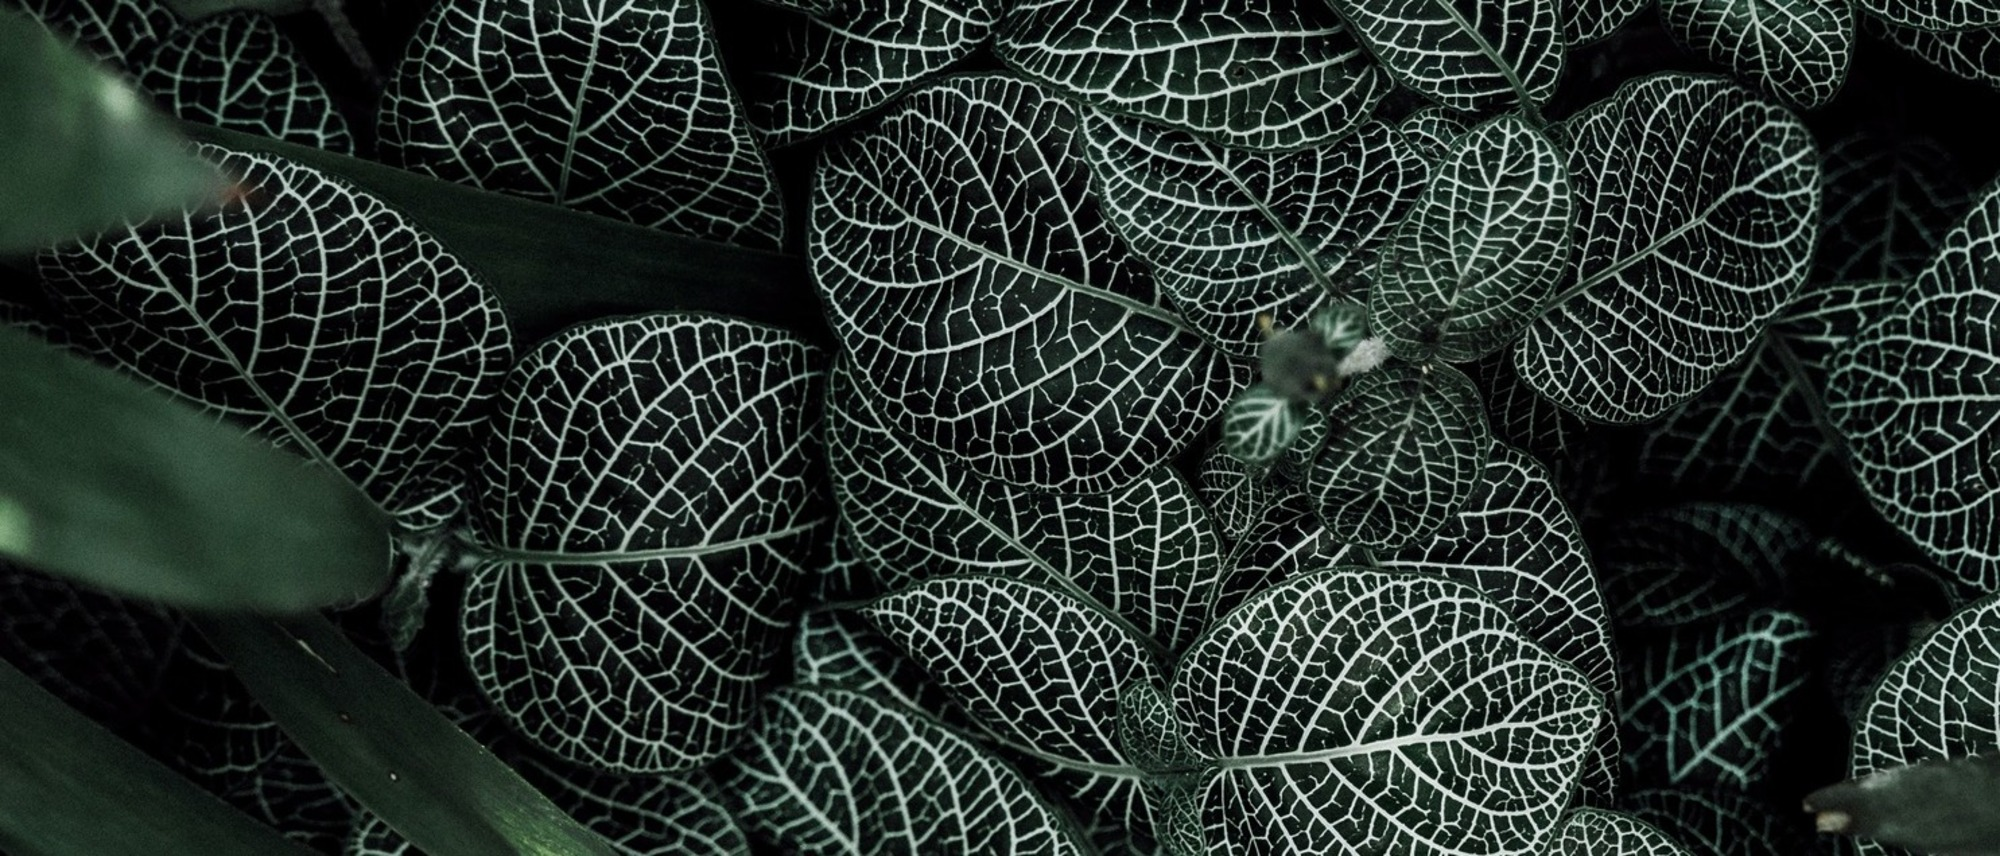
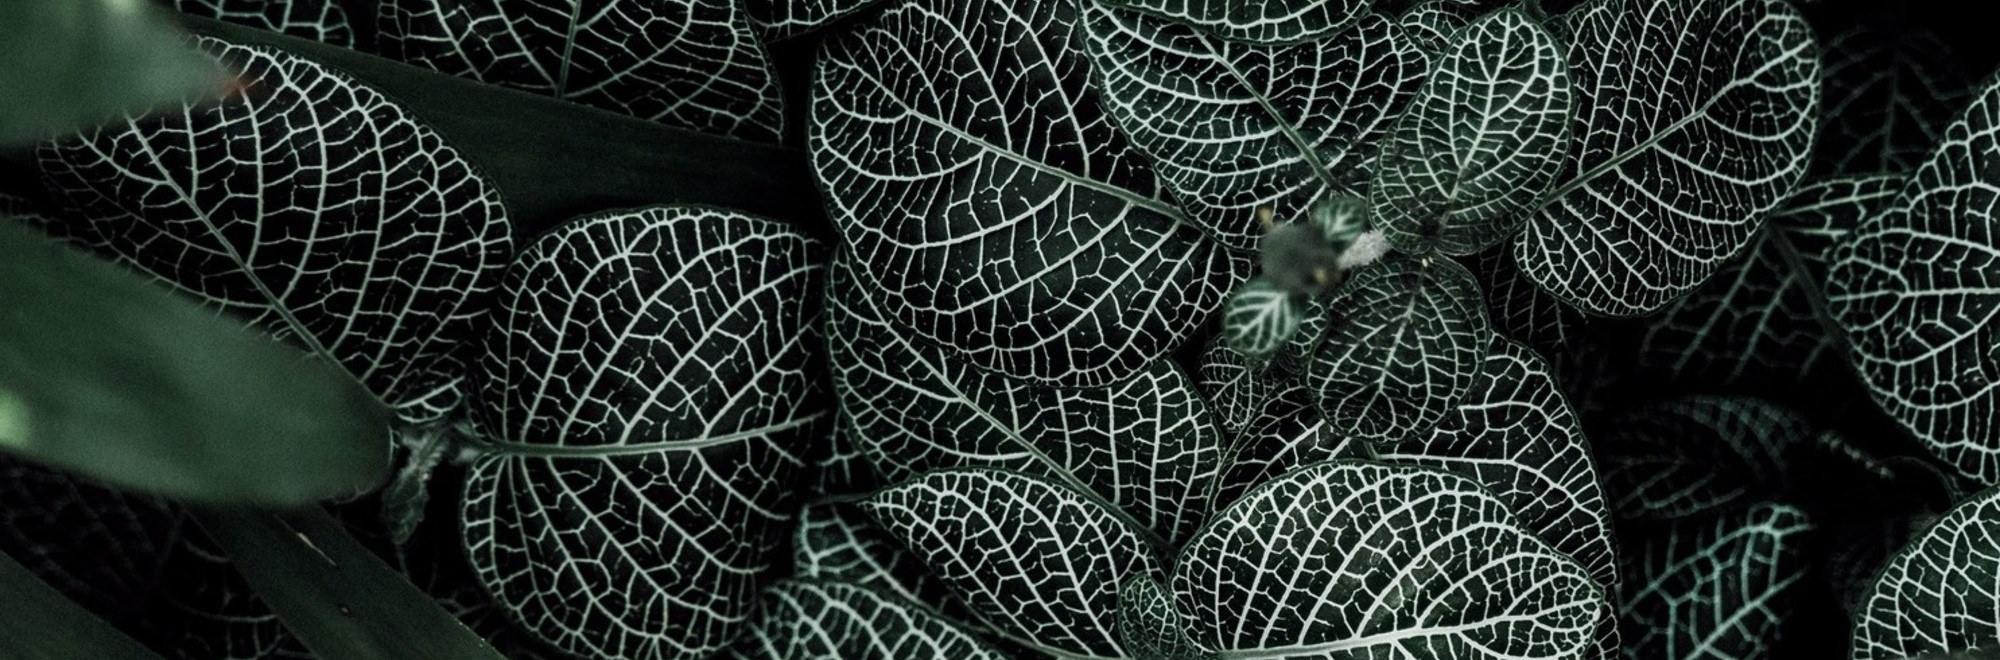
Assignment 8
Tables and Forms

diff --git a/project/project.css b/project/project.css
@@ -23,17 +23,18 @@ nav {
     overflow: hidden;
     font-family: 'Ostrich Sans', Arial, Helvetica, sans-serif;
     background-color: #BEDAC6;
-    position: -webkit-sticky;
-    position: sticky;
-    top: 0;
 } 
 nav ul { 
     list-style-type: none; 
     margin: 0;
-    background-color: black;
+    display: inline-flex;
+    margin-left: auto;
+    margin-right: 0;
 }
 nav a {
-    float: right;
+/*     margin-left: auto;
+    margin-right: 0; */
+    display: inline-flex;
     color: #1C3122;
     text-align: center;
     padding: 14px 16px;
@@ -63,7 +64,7 @@ header a {
     font-family: 'Ostrich Sans', Arial, Helvetica, sans-serif;
 }
 header h1 {
-    padding-left: 15px;
+    padding-left: 10%;
     margin: 0;
 }
 
@@ -84,8 +85,9 @@ p {
     font-family: 'permianseriftypefaceregular', Times, serif;
     font-size: 16px;
     color: #1C3122;
-    padding: 10px 50px 10px 50px;
     outline: medium solid #1C3122;
+    padding: 10px 50px 10px 50px;
+    margin: 0;
 }
 div {
     padding: 10px 50px 10px 50px;
@@ -104,11 +106,15 @@ ul {
 .onefourth h1 {
     font-size: 1em;
 }
+#banner {
+    background-image: url(images/banner.jpg);
+}
 
 /* images */
 .container {
     display: flex;
     justify-content: space-between;
+    background-color: #BEDAC6;
 }
 
 /* footer */
@@ -121,9 +127,14 @@ footer {
     text-align: center;
     padding: 1em;
 }
+img {
+    border-style: none;
+    max-width: 100%;
+    height: auto;
+}
 
 /* contact */
-.wrapper {
+#wrapper {
     float: left;
     background-color: #1C3122;
     padding-left: 0;
@@ -132,22 +143,22 @@ footer {
     padding-bottom: 5px;
     width: 400px;
 }
-.wrapper h1 {
+#wrapper h1 {
     color:#BEDAC6;
 }
-.wrapper p {
+#wrapper p {
     color: #BEDAC6;
     font-size: 1em;
 }
-.contact {
+#contact {
     padding-left: 475px;
 }
 
 /* coffee and plants */
-.coffee {
+#coffee {
     padding-left: 400px;
 }
-.coffee h1 {
+#coffee h1 {
     font-size: 3em;
     padding-bottom: 0;
     /* padding-left: 400px; */
@@ -155,3 +166,88 @@ footer {
 /* .coffee p {
     padding-left: 400px;
 } */
+@media (max-width: 768px) {
+    p { 
+        outline: none; 
+    }
+    .container {
+        display: flex;
+        flex-wrap: wrap;
+        background-color: #BEDAC6;
+    }
+    #coffee {       
+        padding: 0;
+    }
+    #wrapper {
+        width: 100%;
+        text-align: left;
+    }
+    #contact {
+        padding-left: 50px;
+    }
+    #banner {
+        background-image: url(images/smallbanner.jpg);
+    }
+}
+@media (max-width: 600px) {
+    p { 
+        outline: none; 
+    }
+    main img { 
+        display: none;
+    }
+    nav {
+        /* float: none; */
+        width: 100%;
+        padding: 0;
+        margin: 0;
+        background-color: #1C3122;
+    }
+    nav ul {
+        margin: 0;
+        padding: 0;
+        list-style-type: none;
+    }
+    nav ul li {
+        padding: 1% 0 0 0;
+        text-align: center;
+    }
+    nav a {
+        text-decoration: none;
+        float: none;
+        display: flex;
+        flex-wrap: wrap;
+        padding: .2em;
+        font-size: 1.25em;
+        color: #BEDAC6;
+    }
+    #coffee {
+        padding: 0;
+    }
+    #wrapper {
+        /* display: none; */
+        width: 100%;
+        background-color: #BEDAC6;
+        text-align: left;
+    }
+    #wrapper h1 { color:#1C3122; }
+    #wrapper p { color:#1C3122; }
+    #contact {
+        padding-left: 50px;
+    }
+    .container {
+        display: flex;
+        flex-wrap: wrap;
+        background-color: #BEDAC6;
+    }
+    #banner {
+        display: none;
+    }
+}
+@media (min-width: 1200px) {
+    nav {
+        position: -webkit-sticky;
+        position: sticky;
+        top: 0;
+    }
+}

diff --git a/javajam/jobs.html b/javajam/jobs.html
@@ -25,29 +25,25 @@
             </ul>
         </nav>
         <main>
-            <div id="homehero"></div>
-            <h2>Follow the Winding Road to JavaJam</h2>
-            <p>We’re a little out of the way, but take a drive in the country 
-            down Garrett Bay Road to JavaJam today! Indulge in our locally 
-            roasted free-trade coffee and home-made pastries. You’ll feel 
-            right at home at JavaJam!</p>
-            <p>Friendly and eclectic — JavaJam Coffee Bar is the perfect 
-            place to take a break, enjoy a refreshing beverage, and have a 
-            snack or light meal.</p>
-            <h3>JavaJam Coffee Bar features:</h3>
-            <ul>
-                <li>Specialty Coffee and Organic Tea</li>
-                <li>Bagels, Muffins, and Gluten-free Pastries</li>
-                <li>Organic Salads</li>
-                <li>Music and Poetry Readings</li>
-                <li>Open Mic Nights</li>
-            </ul>
-            <p><img src="pic_trulli.jpg" alt="Italian Trulli"></p>
+            <div id="herojobs"></div>
+            <h2>Jobs at JavaJam</h2>
+            <p>Want to work at JavaJam? Fill out the form below to start you application. All information is required.</p>
+            <form method="post" action="https://webdevbasics.net/scripts/javajam8.php">
+                <label for="myName">Name: </label>
+                <input type="text" id="myName" required>
+                <label for="myEmail">Email: </label>
+                <input type="email" id="myEmail" required>
+                <label for="myStart">Start Date: </label>
+                <input type="date" id="myStart" required>
+                <label for="myExperience">Experience: </label>
+                <textarea name="myExperience" id="myExperience" rows="2" cols="20" required></textarea>
+                <input type="submit" value="Apply Now">
+            </form>
             <div>12010 Garrett Bay Road<br>Ellison Bay, WI 54210<br><a id="mobile" href="tel:888-555-5555"><span id="desktop">888-555-5555</span>888-555-5555</a></div> &nbsp;
         </main>
         <footer>
-                Copyright &copy; 2023 JavaJam Coffee Bar<br> <a href="mailto:jolie@tatton.com">jolie@tatton.com</a>
-        </footer>
+            Copyright &copy; 2023 JavaJam Coffee Bar<br> <a href="mailto:jolie@tatton.com">jolie@tatton.com</a>
+    </footer>
     </div>
-    </body>
+</body>
 </html>

diff --git a/javajam/menu.html b/javajam/menu.html
@@ -21,6 +21,7 @@
                 <li><a href="index.html">Home</a></li>
                 <li><a href="menu.html">Menu</a></li>
                 <li><a href="music.html">Music</a></li>
+                <li><a href="jobs.html">Jobs</a></li>
             </ul>
         </nav>
         <main>
@@ -31,18 +32,20 @@
             discount on each cup of coffee you purchase — ask the barista for 
             details.</p>
             <div id="flow">
-                <section>
-                    <h3>Just Java</h3>
-                    <p>Regular house blend, decaffeinated coffee, or flavor of the day.<br>Endless Cup $3.50</p>
-                </section>
-                <section>  
-                    <h3>Cafe Au Lait</h3>
-                    <p>House blended coffee infused into a smooth, steamed milk.<br>Single $4.00 Double $5.00</p>
-                </section>
-                <section>
-                    <h3>Iced Cappuccino</h3>
-                    <p>Sweetened espresso blended with icy-cold milk and served in a chilled glass.<br>Single $5.00 Double $6.50</p>
-                </section>
+                <table>
+                    <tr>
+                        <th>Just Java</th> 
+                        <td>Regular house blend, decaffeinated coffee, or flavor of the day.<br>Endless Cup $3.50</td>
+                    </tr>
+                    <tr>
+                        <th>Cafe Au Lait</th>
+                        <td>House blended coffee infused into a smooth, steamed milk.<br>Single $4.00 Double $5.00</td>
+                    </tr>
+                    <tr>
+                        <th>Iced Cappuccino</th>
+                        <td>Sweetened espresso blended with icy-cold milk and served in a chilled glass.<br>Single $5.00 Double $6.50</td>
+                    </tr>
+                </table>
             </div>
             <div>12010 Garrett Bay Road<br>Ellison Bay, WI 54210<br><a id="mobile" href="tel:888-555-5555"><span id="desktop">888-555-5555</span>888-555-5555</a></div> &nbsp;
         </main>

diff --git a/javajam/javajam.css b/javajam/javajam.css
@@ -125,6 +125,29 @@ img {
 #desktop {
     display: none;
 }
+table {
+    width: 90%;
+    border-spacing: 0;
+}
+td, th {
+    padding: 10px;
+}
+tr:nth-of-type(odd) {
+	background-color: #D2B48E;
+}
+#herojobs {
+    height: 300px;
+    background-image: url(images/coffeecup.jpg);
+    background-repeat: no-repeat;
+    background-size: 100% 100%;
+}
+form { display: flex;
+    flex-direction: column;
+    padding-left: 1em; width: 80%; 
+}
+input, textarea { 
+    margin-bottom: .5em; 
+}
 @media (min-width: 600px) {
     header {
         text-align: center;
@@ -167,6 +190,20 @@ img {
     h4 {
         margin-left: 10%;
         margin-right: 10%;
+    }
+    form {
+        width: 40%;
+        display: grid;
+        grid-gap: 1em;
+        gap: 1em;
+        grid-template-columns: 6em 1fr;
+    }
+    input[type="submit"] {
+        grid-column: 2 / 3;
+        width: 9em;
+    }
+    #herojobs {
+        background-image: url(images/herojobs.jpg);
     }
 }
 @media (min-width: 1024px) {

diff --git a/project/plants.html b/project/plants.html
@@ -24,7 +24,8 @@
                 knowledgeable staff who can provide advice on selecting and caring for different types of houseplants. <br><br>
                 Houseplants can bring life and beauty into any indoor space, making them a popular choice 
                 for those looking to spruce up their home decor.<br><br>Call or come in store for prices.</p>
-            <div class="container">
+            </main>
+                <div class="container">
                 <img src="/images/plant1.jpg" alt="image">
                 <img src="/images/plant2.jpg" alt="image2">
                 <img src="/images/plant3.jpg" atl="image3">
@@ -34,7 +35,6 @@
                 <img src="/images/plant5.jpg" alt="image2">
                 <img src="/images/plant6.jpg" atl="image3">
             </div>
-        </main>
         <footer>
             Copyright &copy; Brews and Blooms 2023 <br> <a href="information@brewsandblooms.com">information@brewsandblooms.com</a>
         </footer>

diff --git a/project/contact.html b/project/contact.html
@@ -18,7 +18,7 @@
             </ul>
         </nav>
         <main>
-            <div class="wrapper">
+            <div id="wrapper">
                <h1>Hours</h1>
                <p>
                 Sunday: 10:00am - 6:00pm<br>
@@ -30,8 +30,8 @@
                 Saturday: 10:am - 6:00pm
                 </p>
             </div>
-            <h1 class="contact">Contact Us</h1>
-            <p class="contact">
+            <h1 id="contact">Contact Us</h1>
+            <p id="contact">
                 Address: 236 Main St Logan, UT 84321<br>
                 Phone: (435) 123 4567<br>
                 Email: <a href="information@brewsandblooms.com">information@brewsandblooms.com</a>

diff --git a/project/coffee.html b/project/coffee.html
@@ -20,7 +20,7 @@
         <main>
             <h1>Coffee</h1>
             <img src="/images/coffee.jpg" class="onefourth" alt="coffee">
-            <div class="coffee">
+            <div id="coffee">
             <h1>Spiced Mocha Latte</h1>
             <p>This latte is made with rich espresso, creamy milk, and a blend of warm spices like cinnamon, nutmeg, and cloves. 
                 The chocolatey flavor comes from high-quality cocoa powder, and the sweetness is balanced out with a touch of maple syrup. 

diff --git a/project/index.html b/project/index.html
@@ -17,8 +17,8 @@
                 <li><a href="index.html">Home</a></li>
             </ul>
         </nav>
-        <img src="/images/banner.jpg" alt="Plants" height="500" width="100%">
         <main>
+            <img src="/images/banner.jpg" alt="Plants" height=auto width="100%">
 
             <h1>About Brews and Blooms</h1>
             <p>

diff --git a/javajam/music.html b/javajam/music.html
@@ -21,6 +21,7 @@
                 <li><a href="index.html">Home</a></li>
                 <li><a href="menu.html">Menu</a></li>
                 <li><a href="music.html">Music</a></li>
+                <li><a href="jobs.html">Jobs</a></li>
             </ul>
         </nav>
         <main>
